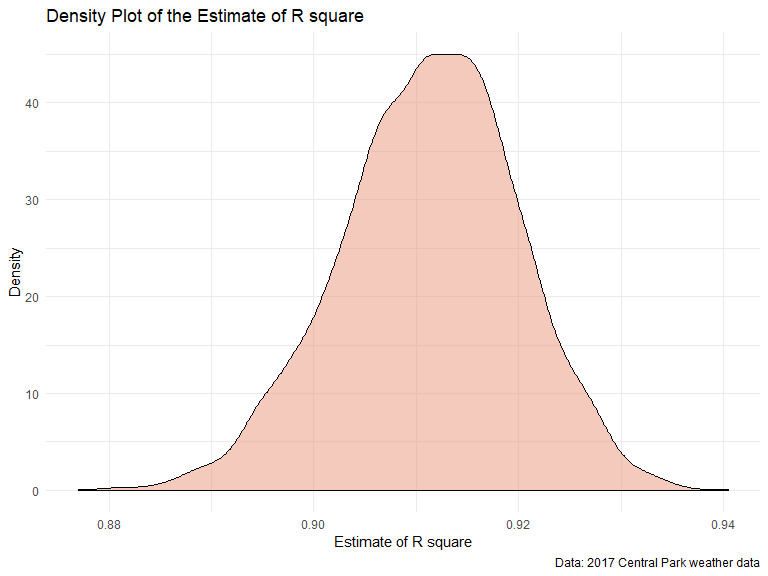
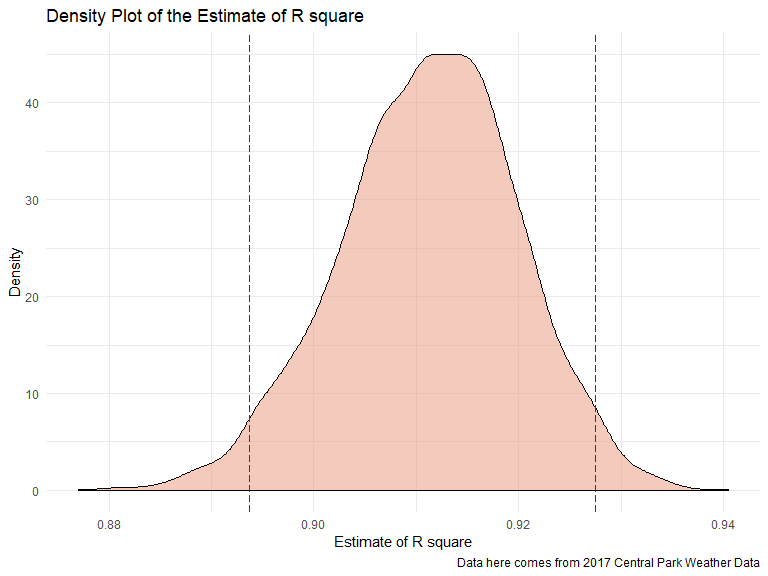
CI and density plot marked by CI added

Changed region(s): [[0.5938, 0.9688, 0.9688, 1.0]]

diff --git a/p8105_hw6_jt3174.md b/p8105_hw6_jt3174.md
@@ -11,14 +11,14 @@ set.seed(1)
 library(tidyverse)
 ```
 
-    ## -- Attaching packages ------------ tidyverse 1.3.0 --
+    ## -- Attaching packages ----------------------------------------------------------- tidyverse 1.3.0 --
 
     ## v ggplot2 3.2.1     v purrr   0.3.3
     ## v tibble  2.1.3     v dplyr   0.8.3
     ## v tidyr   1.0.0     v stringr 1.4.0
     ## v readr   1.3.1     v forcats 0.4.0
 
-    ## -- Conflicts --------------- tidyverse_conflicts() --
+    ## -- Conflicts -------------------------------------------------------------- tidyverse_conflicts() --
     ## x dplyr::filter() masks stats::filter()
     ## x dplyr::lag()    masks stats::lag()
 
@@ -417,20 +417,34 @@ boot_straps = boot_straps %>%
 ```
 
 ``` r
+r_square_CI = boot_straps %>% 
+  # keep only the value that has value "tmin"
+  filter(term == "tmin") %>% 
+  pull(., r.squared)%>% 
+  # obtain CI
+  quantile(., c(.025, .975))
+```
+
+The CI of \(\hat{r}^2\) that comes from bootstrap is (0.8936977,
+0.9274807).
+
+``` r
 boot_straps %>% 
   # keep only tmin-related info
   filter(term == "tmin") %>% 
   # plot: x-axis = r-squared
   ggplot(aes(x = r.squared)) +
   geom_density(alpha = 0.5, fill = "darksalmon") +
-    labs(
+  geom_vline(aes(xintercept = r_square_CI[[1]]), color = "darkgreen", linetype = "longdash") +
+  geom_vline(aes(xintercept = r_square_CI[[2]]), color = "darkgreen", linetype = "longdash") +
+  labs(
     title = "Density Plot of the Estimate of R square",
     x = "Estimate of R square",
     y = "Density",
-    caption = "Data: 2017 Central Park weather data") 
+    caption = "Data here comes from 2017 Central Park Weather Data")
 ```
 
 <img src="p8105_hw6_jt3174_files/figure-gfm/r-hat squared plot-1.png" width="90%" />
 
 According to density of \(\hat{r}^2\), we can see that this is close to
-normal curve. Then, we look for the 95% CI of \(\hat{r}^2\).
+normal curve.
